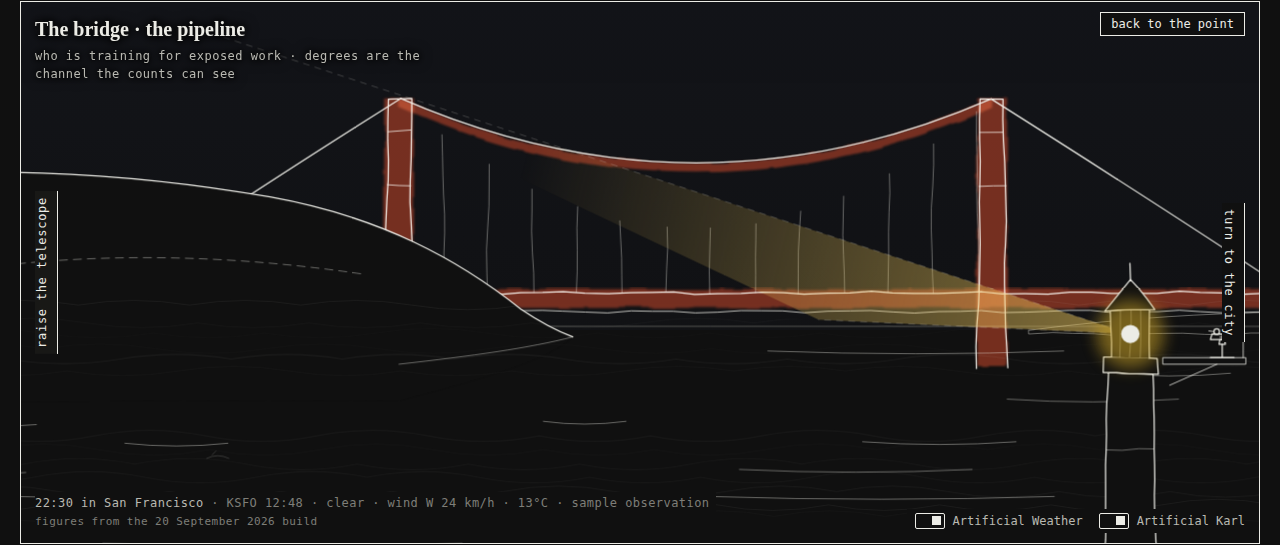
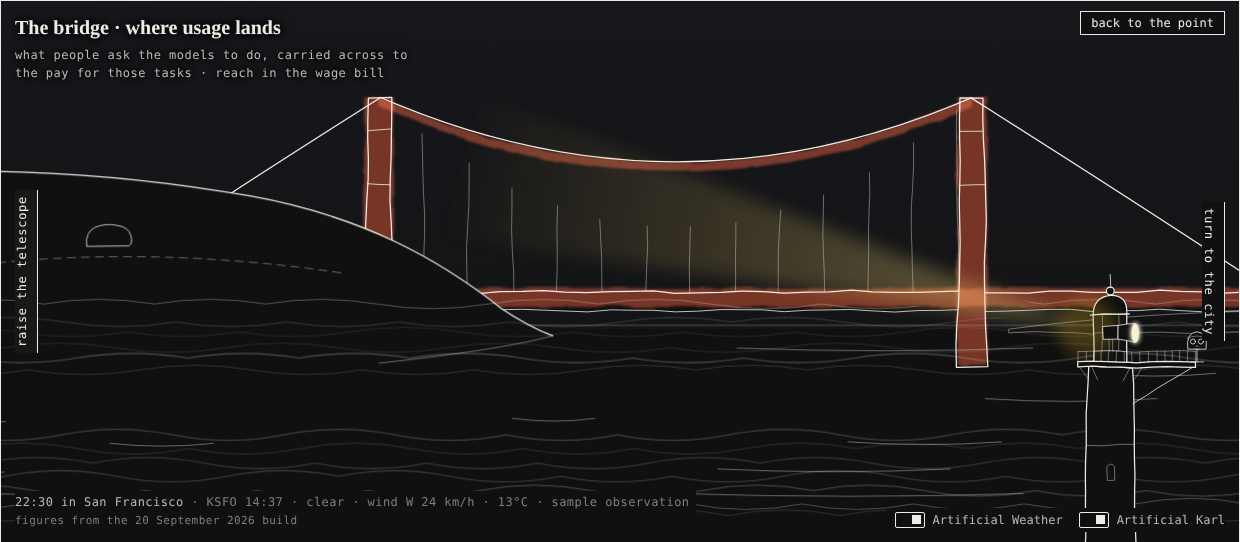
Front page: the lighthouse as it is built, with a lamp that turns and sends the light from its lens; the round-headed viewer on the gallery; the skyline layered; the hydrant between the towers and City Hall; rows of houses and trees on the southern slopes; no daytime glow and no colour in the sun; K

diff --git a/docs/mockup/index.html b/docs/mockup/index.html
@@ -40,7 +40,7 @@ header.top{display:flex;align-items:baseline;justify-content:space-between;gap:1
 .stage{position:relative;margin-top:14px;border:1px solid var(--ink);background:var(--paper);overflow:hidden;aspect-ratio:16/7}
 /* Each layer is its own drawing surface, so the line work with its filters is painted once and only the
    water, the fog and the sky repaint; turning to a view moves the surfaces, which repaints nothing. */
-.stage>svg{position:absolute;inset:0;width:100%;height:100%;overflow:visible;will-change:transform;pointer-events:none}
+.stage>svg{position:absolute;inset:0;width:100%;height:100%;overflow:visible;pointer-events:none}
 .stage>svg.pan{transition:opacity .8s}
 /* Turning to a view is a scale of the one drawing about that place, on a group inside each surface, so the
    ink keeps its weight: strokes are set in screen pixels and do not thicken with the zoom. */
@@ -105,6 +105,7 @@ header.top{display:flex;align-items:baseline;justify-content:space-between;gap:1
 .stage:not([data-view="home"]) .fg .hot,.stage[data-view="valley"] .beam{display:none}
 .stage:not([data-view="home"]) .beam path{opacity:.4}
 .halo{fill:var(--gold);stroke:none;opacity:0;transition:opacity .6s}
+.lens{fill:var(--paper)}.dusk .lens{fill:#FBE9B5}.night .lens{fill:#FFF2C2;filter:url(#lamp)}
 .nightlight{opacity:0;transition:opacity 1.2s}
 .dusk .nightlight{opacity:.45}
 .night .nightlight{opacity:.85}
@@ -252,8 +253,7 @@ header.top{display:flex;align-items:baseline;justify-content:space-between;gap:1
         <g class="beam" id="beam"><polygon id="beamlight" points="0,0" fill="url(#beamgrad)" style="stroke:none"/><path d="" class="hair" stroke-dasharray="6 6"/></g>
         <g id="lh"></g>
         <!-- a small platform off the gallery, and the coin telescope on it, turned south -->
-        <path d="M825 283 L 888 283 L 888 288 L 825 288 Z M 886 283 L 886 270 M 866 288 L 830 304" class="thin" style="fill:var(--paper)"/>
-        <g transform="translate(870,283)" id="viewer-small"></g>
+        <g transform="translate(866,285)" id="viewer-small"></g>
         <path d="M640 604 L 960 604 M640 604 L 640 630 M720 604 L 720 632 M800 604 L 800 632 M880 604 L 880 630 M960 604 L 960 628" class="thin"/>
         <g class="hot" id="hot-city" tabindex="0" role="button" aria-label="The city: what has moved">
           <path class="hit" d="M800 300 L1600 120 L1600 480 Z"/><path class="hit" d="M1000 120 h560 v200 h-560 Z"/>
@@ -347,7 +347,7 @@ header.top{display:flex;align-items:baseline;justify-content:space-between;gap:1
   const el = (tag, attrs={}, parent) => { const n = document.createElementNS(NS, tag); for (const k in attrs) n.setAttribute(k, attrs[k]); if (parent) parent.appendChild(n); return n; };
   function rng(seed){ let s = seed; return () => (s = (s * 16807) % 2147483647) / 2147483647; }
   const W = 1600;                         // the frame is the scene: the view from the point
-  const CH = 780, HYD = 870;              // in the city's own units: City Hall's x, and the hydrant's on the shore
+  const CH = 756, HYD = 838;              // in the city's own units: City Hall's x, and the hydrant's on the shore
 
   /* ---------- line work ---------- */
   function water(g, x0, x1, y0, y1, seed, dens){
@@ -366,16 +366,32 @@ header.top{display:flex;align-items:baseline;justify-content:space-between;gap:1
     }
   }
   function lighthouse(g, x, y, h){
-    const w = 34, top = y - h;
-    el("path", {d:`M${x-w/2-6} ${y} L ${x-w/2} ${top+40} L ${x+w/2} ${top+40} L ${x+w/2+6} ${y} Z`, style:"fill:var(--paper)"}, g);
-    for (let i=1;i<5;i++){ const yy = top+40 + (y-top-40)*i/5; el("path", {d:`M${x-w/2-1} ${yy} L ${x+w/2+1} ${yy}`, class:"hair"}, g); }
-    el("path", {d:`M${x-w/2-4} ${top+40} L ${x+w/2+4} ${top+40} L ${x+w/2+4} ${top+28} L ${x-w/2-4} ${top+28} Z`, style:"fill:var(--paper)"}, g);
-    el("path", {d:`M${x-w/2+2} ${top+28} L ${x-w/2+2} ${top-8} L ${x+w/2-2} ${top-8} L ${x+w/2-2} ${top+28}`, style:"fill:var(--paper)"}, g);
-    el("path", {d:`M${x-8} ${top-8} L ${x-8} ${top+28} M${x} ${top-8} L ${x} ${top+28} M${x+8} ${top-8} L ${x+8} ${top+28}`, class:"hair"}, g);
-    el("path", {d:`M${x-w/2-2} ${top-8} L ${x+w/2+2} ${top-8} L ${x} ${top-32} Z`, style:"fill:var(--paper)"}, g);
-    el("path", {d:`M${x} ${top-32} L ${x} ${top-44}`}, g);
-    el("circle", {cx:x, cy:top+10, r:26, class:"halo"}, g);
-    el("circle", {cx:x, cy:top+10, r:7, class:"solid lantern"}, g);
+    const w = 34, top = y - h, P = "fill:var(--paper)";
+    el("path", {d:`M${x-w/2-6} ${y} L ${x-w/2} ${top+34} L ${x+w/2} ${top+34} L ${x+w/2+6} ${y} Z`, style:P}, g);
+    for (let i=1;i<5;i++){ const yy = top+34 + (y-top-34)*i/5; el("path", {d:`M${x-w/2-1} ${yy} L ${x+w/2+1} ${yy}`, class:"hair"}, g); }
+    el("path", {d:`M${x-3} ${top+120} L ${x-3} ${top+110} Q ${x} ${top+106} ${x+3} ${top+110} L ${x+3} ${top+120} Z M${x-3} ${top+200} L ${x-3} ${top+190} Q ${x} ${top+186} ${x+3} ${top+190} L ${x+3} ${top+200} Z`, class:"hair"}, g);
+    // the corbels under the gallery, and the gallery deck, which runs out on the south side to carry the viewer
+    for (const d of [-1, 1]) el("path", {d:`M${x+d*(w/2)} ${top+44} L ${x+d*(w/2+7)} ${top+34} M${x+d*(w/2-7)} ${top+44} L ${x+d*(w/2-2)} ${top+34}`, class:"hair"}, g);
+    el("path", {d:`M${x-w/2-8} ${top+30} L ${x+w/2+48} ${top+30} L ${x+w/2+48} ${top+34} L ${x-w/2-8} ${top+34} Z`, style:P}, g);
+    el("path", {d:`M${x+w/2+46} ${top+34} L ${x+w/2} ${top+62}`, class:"thin"}, g);
+    // the lantern room: glass between mullions, on a low parapet
+    el("path", {d:`M${x-13} ${top+30} L ${x-13} ${top-6} L ${x+13} ${top-6} L ${x+13} ${top+30} Z`, style:P}, g);
+    el("path", {d:`M${x-13} ${top+22} L ${x+13} ${top+22} M${x-6.5} ${top-6} L ${x-6.5} ${top+22} M${x+6.5} ${top-6} L ${x+6.5} ${top+22} M${x-13} ${top+8} L ${x+13} ${top+8}`, class:"hair"}, g);
+    // the roof: a shallow dome, its eave, the ventilator ball and the rod
+    el("path", {d:`M${x-15} ${top-6} L ${x+15} ${top-6} M${x-13} ${top-6} Q ${x-13} ${top-20} ${x} ${top-21} Q ${x+13} ${top-20} ${x+13} ${top-6} Z`, style:P}, g);
+    el("circle", {cx:x, cy:top-24, r:3, style:P}, g); el("path", {d:`M${x} ${top-27} L ${x} ${top-37}`, class:"thin"}, g);
+    el("circle", {cx:x, cy:top+8, r:22, class:"halo", id:"halo"}, g);
+    // the lamp: a drum on its yoke and a short barrel ending in the lens; it pokes out of the glass on the side it faces
+    const lamp = el("g", {id:"lamp", transform:`translate(${x},${top+8})`}, g);
+    el("path", {d:"M -1.5 5 L -1.5 14 M 1.5 5 L 1.5 14", class:"hair"}, lamp);
+    el("path", {d:"M -6 -5 L 6 -5 L 6 5 L -6 5 Z", class:"thin", style:P}, lamp);
+    el("path", {d:"M 6 -5 L 19 -7 L 19 7 L 6 5 Z", class:"thin", style:P}, lamp);
+    el("ellipse", {cx:19, cy:0, rx:2.4, ry:7, class:"thin lens"}, lamp);
+    el("ellipse", {cx:19, cy:0, rx:1.2, ry:3.8, class:"hair"}, lamp);
+    // the gallery railing, in front of the glass and the lamp
+    let rail = `M${x-w/2-8} ${top+22} L ${x+w/2+48} ${top+22}`;
+    for (let px = x-w/2-8; px <= x+w/2+48; px += 6) rail += ` M${px} ${top+22} L ${px} ${top+30}`;
+    el("path", {d:rail, class:"hair"}, g);
   }
   function suspension(g, x1, x2, deckY, towerH, sag){
     const mid = (x1+x2)/2;
@@ -461,12 +477,11 @@ header.top{display:flex;align-items:baseline;justify-content:space-between;gap:1
   el("path", {d:"M 0 380 L 0 262 C 60 252, 150 256, 230 270 C 290 281, 332 304, 366 330 C 376 338, 384 343, 394 346 C 380 360, 330 372, 300 380 Z", style:"fill:var(--paper);stroke:none"}, headland);
   el("path", {d:"M 0 262 C 60 252, 150 256, 230 270 C 290 281, 332 304, 366 330 C 376 338, 384 343, 394 346"}, headland);
   { const cp = el("clipPath", {id:"behind-rock", clipPathUnits:"userSpaceOnUse"}, el("defs", {}, $("#L-water"))); el("rect", {x:-14, y:-40, width:28, height:42}, cp); }
-  const bear = el("g", {transform:"translate(154,294) scale(1.4)", "clip-path":"url(#behind-rock)"}, headland), bearHead = el("g", {transform:"translate(0,8)", id:"bearhead"}, bear);
+  const bear = el("g", {transform:"translate(154,295) scale(1.1)", "clip-path":"url(#behind-rock)"}, headland), bearHead = el("g", {transform:"translate(0,8)", id:"bearhead"}, bear);
   el("path", {d:"M -3.2 -5 a 1.4 1.4 0 1 1 0.1 0 M 3.2 -5 a 1.4 1.4 0 1 1 0.1 0", class:"thin", style:"fill:var(--paper)"}, bearHead);
   el("path", {d:"M -4.2 1 Q -4.8 -5.4 0 -5.8 Q 4.8 -5.4 4.4 -1.2 Q 7.4 -1.4 7.6 0.2 Q 7.2 1.6 4 1.4 L 4 1.8 Z", class:"thin", style:"fill:var(--paper)"}, bearHead);
   el("circle", {cx:2, cy:-2.6, r:.55, class:"solid"}, bearHead); el("circle", {cx:7.3, cy:-0.3, r:.6, class:"solid"}, bearHead);
-  el("path", {d:"M 139 298 L 142 290 L 148 285 L 156 283 L 163 285.5 L 167 291 L 169 298 Z", class:"thin", style:"fill:var(--paper)"}, headland);
-  el("path", {d:"M 152 284 L 154 290 L 151 294", class:"hair"}, headland);
+  el("path", {d:"M 143 297 Q 142 290 147 287 Q 153 284 159 285.5 Q 165 287 166 292 Q 167 296 165 297 Z", class:"thin", style:"fill:var(--paper)"}, headland);
   el("path", {d:"M 394 346 C 370 352, 340 356, 300 360", class:"hair"}, headland);
   el("path", {d:"M 20 318 C 100 300, 190 298, 280 312", class:"hair", "stroke-dasharray":"8 6"}, headland);
   fog(fogG, [[330, 5, 6],[400, 6, 7],[470, 5, 5]], 11);
@@ -495,21 +510,29 @@ header.top{display:flex;align-items:baseline;justify-content:space-between;gap:1
     const ridge = [[-40,-24],[120,-32],[260,-46],[420,-58],[520,-66],[630,-86]];
     const ridgeY = u => { for (let i=1;i<ridge.length;i++) if (u <= ridge[i][0]){ const [a, ya] = ridge[i-1], [b, yb] = ridge[i]; return ya + (yb-ya)*(u-a)/(b-a); } return -86; };
     { const rh = rng(97);
-      for (let u = 0; u < 590; u += 26 + rh()*30){
-        const depth = 8 + rh()*34, base = b0 + ridgeY(u) + depth; if (base > b0 - 4) continue;
-        const w_ = 9 + rh()*9, h_ = 5 + rh()*5, x = ox + u + rh()*8;
-        // a small house: a box with a pitched or a flat roof, a window now and then
-        const roof = rh() < .6 ? `L ${x+w_/2} ${base-h_-4}` : "";
-        el("path", {d:`M${x} ${base} L ${x} ${base-h_} ${roof} L ${x+w_} ${base-h_} L ${x+w_} ${base} Z`, class:"hair", style:"fill:var(--paper)"}, g);
-        if (rh() < .5) el("path", {d:`M${x+w_*.35} ${base-h_*.55} l 3 0`, class:"hair"}, g); } }
+      const tree = (x, base, r) => el("path", {d:`M${x-r} ${base} q 0 ${-r*1.6} ${r} ${-r*1.9} q ${r} ${r*.3} ${r} ${r*1.9} z M${x} ${base} l 0 2`, class:"hair", style:"fill:var(--paper)"}, g);
+      // three rows, the highest first so the lower ones stand in front of it
+      for (const depth of [9, 21, 33]){
+        let u = 4 + rh()*10;
+        while (u < 600){
+          const base = b0 + ridgeY(u) + depth; if (base > b0 - 4){ u += 12; continue; }
+          if (rh() < .2){ tree(ox+u+5, base, 4 + rh()*2.5); u += 12 + rh()*10; continue; }          // a tree, or a gap in the row
+          if (rh() < .07){ u += 10 + rh()*14; continue; }
+          const w_ = 7 + rh()*4, h_ = 5 + rh()*3, pitched = rh() < .25, x = ox + u;
+          el("path", {d:`M${x} ${base} L ${x} ${base-h_} ${pitched ? `L ${x+w_/2} ${base-h_-3}` : ""} L ${x+w_} ${base-h_} L ${x+w_} ${base} Z`, class:"hair", style:"fill:var(--paper)"}, g);
+          if (rh() < .55) el("path", {d:`M${x+2} ${base-h_*.5} l 2.4 0`, class:"hair"}, g);
+          u += w_ - .2; } } }
     const sx = ox+700, sy = baseY-104;
     // Sutro: three masts, the outer pair upright at the top, pinched to a waist, splayed to the feet, tied by struts
     const H = 100;
     el("path", {d:`M${sx-15} ${sy} L ${sx-4} ${sy-H*0.52} L ${sx-8} ${sy-H*0.62} L ${sx-8} ${sy-H} M${sx} ${sy-H-8} L ${sx} ${sy} M${sx+15} ${sy} L ${sx+4} ${sy-H*0.52} L ${sx+8} ${sy-H*0.62} L ${sx+8} ${sy-H}`, class:"thin"}, g);
     for (const [f, hw] of [[0.12, 13], [0.3, 9], [0.5, 4], [0.62, 8], [0.84, 8]]) el("path", {d:`M${sx-hw} ${sy-H*f} L ${sx+hw} ${sy-H*f}`, class:"hair"}, g);
-    const towers = [[860,110,26,1],[892,150,24,1],[920,80,20,0],[946,200,30,1],[982,260,34,1],[1022,180,26,1],[1054,150,22,1],[1082,120,28,0],[1116,96,22,1],[1144,140,26,1],[1176,70,20,0]];
-    for (const [x,h,w_,win] of towers) box(g, ox + 2056 - x - w_, baseY-h-8, w_, h, win);
-    el("path", {d:`M ${ox+1128} ${baseY-8} L ${ox+1142} ${baseY-236} L ${ox+1156} ${baseY-8} Z`, style:"fill:var(--paper)"}, g);
+    // each tower: x, height, width, windows, and how far forward it stands (0 behind, 2 in front)
+    const towers = [[852,104,28,1,1],[874,146,26,1,0],[894,78,22,0,2],[912,196,30,1,0],[938,150,26,1,1],[960,120,22,1,2],[982,260,34,1,1],[1008,184,28,1,0],
+                    [1030,128,24,1,2],[1046,152,24,1,1],[1066,112,28,0,0],[1086,142,24,1,1],[1106,94,22,1,2],[1124,166,24,1,0],[1148,122,26,1,1],[1170,76,22,0,2],[1188,104,20,1,0]];
+    for (const depth of [0, 1, 2]){
+      for (const [x,h,w_,win,dp] of towers) if (dp === depth) box(g, ox + 2056 - x - w_, baseY-h-8, w_, h, win);
+      if (depth === 1) el("path", {d:`M ${ox+1128} ${baseY-8} L ${ox+1142} ${baseY-236} L ${ox+1156} ${baseY-8} Z`, style:"fill:var(--paper)"}, g); }
     el("path", {d:`M ${ox+1040} ${baseY-268} Q ${ox+1057} ${baseY-290} ${ox+1074} ${baseY-268}`}, g);
     // City Hall and Hayes Valley west of the towers, under Sutro: the house a little behind, the trees in front of it
     const hv = ox+CH, gy = baseY-8;
@@ -566,7 +589,7 @@ header.top{display:flex;align-items:baseline;justify-content:space-between;gap:1
     tint(L, domeHalf(hv, gy-44, 44, 24, -1), ca).classList.add("nightlight");
     tint(L, domeHalf(hv, gy-44, 44, 24, 1), cb).classList.add("nightlight");
     // the crown: a soft wash and a grid of blocks that breathe out of step
-    el("ellipse", {cx:hv, cy:gy-54, rx:30, ry:20, class:"nightlight", filter:"url(#glow)", style:`fill:${ca};stroke:none;opacity:.5`}, L);
+    el("ellipse", {cx:hv, cy:gy-54, rx:30, ry:20, class:"nightlight", filter:"url(#glow)", style:`fill:${ca};stroke:none;fill-opacity:.5`}, L);
     el("ellipse", {cx:ox+1057, cy:baseY-276, rx:22, ry:16, class:"nightlight", filter:"url(#glow)", style:"fill:#9FB7C9;stroke:none"}, L);
     tintRect(L, ox+1041, baseY-290, 32, 30, "#9FB7C9").classList.add("nightlight");
     const grid = el("g", {class:"nightlight"}, L); const r = rng(59);
@@ -583,7 +606,13 @@ header.top{display:flex;align-items:baseline;justify-content:space-between;gap:1
     el("path", {d:`M${-21*s} ${-66*s} L ${-34*s} ${-68*s} M${21*s} ${-66*s} L ${34*s} ${-68*s}`, class:"thin"}, g);
     el("path", {d:`M${-6*s} ${-52*s} L ${6*s} ${-52*s} M 0 ${-56*s} L 0 ${-48*s}`, class:"thin"}, g);   // the coin slot, a cross
   }
-  viewer($("#viewer-small"), .3);
+  (function towerViewer(g){
+    el("path", {d:"M -5 0 L 5 0 M 0 0 L 0 -10 M -2 -10 L 2 -10", class:"thin"}, g);
+    el("path", {d:"M -7 -10 Q -8.5 -22 0 -23 Q 8.5 -22 7 -10 Z", class:"thin", style:"fill:var(--paper)"}, g);
+    el("path", {d:"M -7.6 -18 Q 0 -21.5 7.6 -18", class:"hair"}, g);
+    el("circle", {cx:-3, cy:-15.5, r:1.9, class:"thin", style:"fill:var(--paper)"}, g); el("circle", {cx:3, cy:-15.5, r:1.9, class:"thin", style:"fill:var(--paper)"}, g);
+    el("path", {d:"M -1 -12 L 1 -12", class:"hair"}, g);
+  })($("#viewer-small"));
   (function big(){
     const g = $("#viewer-big");
     const hood = el("g", {transform:"translate(800,700)"}, g);
@@ -594,9 +623,9 @@ header.top{display:flex;align-items:baseline;justify-content:space-between;gap:1
     el("path", {d:"M-150 -206 a 34 22 0 1 0 68 0 a 34 22 0 1 0 -68 0 M 82 -206 a 34 22 0 1 0 68 0 a 34 22 0 1 0 -68 0", class:"thin"}, hood);
     el("path", {d:"M-300 -60 L 300 -60", class:"hair"}, hood);
     el("path", {d:"M-14 -134 L 14 -134 M 0 -142 L 0 -126", class:"thin"}, hood);                      // the slot
-    el("path", {d:"M-64 -118 L 64 -118 L 64 -78 L -64 -78 Z", class:"thin"}, hood);                  // the plate
-    const t = el("text", {x:0, y:-88, "text-anchor":"middle", class:"cap"}, hood); t.textContent = "25.5¢";
-    const t2 = el("text", {x:0, y:-46, "text-anchor":"middle"}, hood); t2.textContent = "PER MILLION TOKENS";
+    el("path", {d:"M-70 -126 L 70 -126 L 70 -74 L -70 -74 Z", class:"thin"}, hood);                  // the plate
+    const t = el("text", {x:0, y:-100, "text-anchor":"middle", class:"cap"}, hood); t.textContent = "25.5¢";
+    const t2 = el("text", {x:0, y:-82, "text-anchor":"middle"}, hood); t2.textContent = "PER MILLION TOKENS";
     el("circle", {cx:-236, cy:-112, r:20}, hood); el("path", {d:"M-236 -132 L -236 -92 M-256 -112 L -216 -112", class:"hair"}, hood);
     const k = el("text", {x:-236, y:-78, "text-anchor":"middle"}, hood); k.textContent = "FOCUS";
     const hot = el("g", {class:"hot", id:"hot-coin", tabindex:"0", role:"button", "aria-label":"Insert a coin for sources and method"}, hood);
@@ -614,10 +643,10 @@ header.top{display:flex;align-items:baseline;justify-content:space-between;gap:1
     // the hills behind: a ridge crowned with a ragged line of trees, a raised stand of them with a mast in it, then a sharp drop to the lower ridge
     { const rr = rng(83), Lm = el("g", {transform:"translate(1300,0) scale(-1,1)"}, L);   // mirrored: the crest and its trees to the right, the cut to the left
       let d = "M 480 400 L 480 304 C 500 300, 516 296, 530 292", x = 530;
-      const crown = u => u < 668 ? 292 - (u-530)/138*54 : 238 + (u-668)*0.06;             // the canopy's line: rising to its crest, then nearly level
-      while (x < 700){ const w = 5 + rr()*13, top = Math.min(crown(x), crown(x+w)) - 2 - rr()*7; d += ` Q ${(x+w*.5).toFixed(1)} ${top.toFixed(1)} ${(x+w).toFixed(1)} ${(crown(x+w) + rr()*2).toFixed(1)}`; x += w; }
-      d += ` Q ${(x+3).toFixed(1)} 250 ${(x+2).toFixed(1)} 262 Q ${(x+4).toFixed(1)} 270 ${(x+9).toFixed(1)} 273`; x += 9;   // the steep cut where the trees end
-      while (x < 820){ const w = 5 + rr()*9, y = 273 + (x-710)*0.05; d += ` Q ${(x+w/2).toFixed(1)} ${(y - 2 - rr()*4).toFixed(1)} ${(x+w).toFixed(1)} ${y.toFixed(1)}`; x += w; }
+      const crown = u => u < 596 ? 292 - (u-530)/66*50 : 242 + (u-596)*0.08;              // the canopy's line: rising to its crest, then nearly level
+      while (x < 612){ const w = 5 + rr()*13, top = Math.min(crown(x), crown(x+w)) - 2 - rr()*7; d += ` Q ${(x+w*.5).toFixed(1)} ${top.toFixed(1)} ${(x+w).toFixed(1)} ${(crown(x+w) + rr()*2).toFixed(1)}`; x += w; }
+      d += ` Q ${(x+3).toFixed(1)} 254 ${(x+2).toFixed(1)} 264 Q ${(x+4).toFixed(1)} 272 ${(x+9).toFixed(1)} 275`; x += 9;   // the steep cut where the trees end
+      while (x < 820){ const w = 5 + rr()*9, y = 275 + (x-621)*0.04; d += ` Q ${(x+w/2).toFixed(1)} ${(y - 2 - rr()*4).toFixed(1)} ${(x+w).toFixed(1)} ${y.toFixed(1)}`; x += w; }
       el("path", {d: d + " L 820 400 Z", class:"thin", style:"fill:var(--paper)"}, Lm);
       // the grass below the trees: the hill's own shoulder, and a pale fold lower down
       el("path", {d:"M 500 322 C 570 306, 640 298, 706 296 C 750 296, 790 300, 820 304", class:"hair"}, Lm);
@@ -661,7 +690,7 @@ header.top{display:flex;align-items:baseline;justify-content:space-between;gap:1
   const TARGET = { city:{ ends:[[1000, 230], [1450, 336]], base:[[1020, 250], [1450, 338]] }, bridge:{ ends:[[160, 240], [760, 330]], base:[[300, 215], [560, 338]] }, tele:{ ends:[[1470, 334], [1600, 346]] } };
   const beamPath = $("#beam path"); let beamTimer = null; const fogTimers = [];
   // where the lighthouse stands in each view: whole at the point; turned, only its lantern shows, large, at the side you turned from
-  const LANTERN = [800, 265];
+  const LANTERN = [800, 263];
   const fgAt = (x, y, s) => ({ s, t:[x - s*LANTERN[0], y - s*LANTERN[1]] });
   const FG = { home:{ s:1, t:[0,0] }, city:fgAt(165, 430, 1.7), bridge:fgAt(1435, 430, 1.7), valley:{ s:1, t:[0,0] } };
   const fgToScreen = (view, [x, y]) => { const f = FG[view] || FG.home; return [f.t[0] + f.s*x, f.t[1] + f.s*y]; };
@@ -684,9 +713,16 @@ header.top{display:flex;align-items:baseline;justify-content:space-between;gap:1
       beamPath.setAttribute("d", "");
     }
     const farFg = far.map(e => screenToFg(view, e));
-    $("#beamlight").setAttribute("points", [LANTERN, ...farFg].map(q => q.map(v => v.toFixed(1)).join(",")).join(" "));
-    const g = $("#beamgrad"), mid = [(farFg[0][0]+farFg[1][0])/2, (farFg[0][1]+farFg[1][1])/2];
-    g.setAttribute("x1", LANTERN[0]); g.setAttribute("y1", LANTERN[1]); g.setAttribute("x2", mid[0].toFixed(1)); g.setAttribute("y2", mid[1].toFixed(1));
+    const mid = [(farFg[0][0]+farFg[1][0])/2, (farFg[0][1]+farFg[1][1])/2];
+    // turn the lamp to face the middle of what it lights; the light leaves from its lens
+    const ddx = mid[0]-LANTERN[0], ddy = mid[1]-LANTERN[1], dir = ddx >= 0 ? 1 : -1, tilt = Math.max(-.5, Math.min(.5, Math.atan2(ddy, Math.abs(ddx))));
+    $("#lamp").setAttribute("transform", `translate(${LANTERN[0]},${LANTERN[1]}) scale(${dir},1) rotate(${(tilt*180/Math.PI).toFixed(1)})`);
+    const lens = [LANTERN[0] + dir*19*Math.cos(tilt), LANTERN[1] + 19*Math.sin(tilt)];
+    $("#halo").setAttribute("cx", lens[0].toFixed(1)); $("#halo").setAttribute("cy", lens[1].toFixed(1));
+    if (!zoomed) beamPath.setAttribute("d", farFg.map(([x, y]) => `M${lens[0].toFixed(1)} ${lens[1].toFixed(1)} L ${x.toFixed(1)} ${y.toFixed(1)}`).join(" "));
+    $("#beamlight").setAttribute("points", [lens, ...farFg].map(q => q.map(v => v.toFixed(1)).join(",")).join(" "));
+    const g = $("#beamgrad");
+    g.setAttribute("x1", lens[0].toFixed(1)); g.setAttribute("y1", lens[1].toFixed(1)); g.setAttribute("x2", mid[0].toFixed(1)); g.setAttribute("y2", mid[1].toFixed(1));
     // the fog opens between the same two edges, in scene units
     const [ox, oy] = zoomed ? toScene(view, ...lantern) : lantern, L = 1600/ZOOM[view].s;
     const ang = far.map(([x, y]) => Math.atan2(y-lantern[1], x-lantern[0])); let [a0, a1] = ang; if (a1 < a0) [a0, a1] = [a1, a0]; if (a1 - a0 > Math.PI){ [a0, a1] = [a1, a0 + 2*Math.PI]; }
@@ -932,7 +968,7 @@ header.top{display:flex;align-items:baseline;justify-content:space-between;gap:1
     const cross = 20*Math.max(60, 900 / Math.max(Math.abs(lateral), 3));
     document.documentElement.style.setProperty("--cdrift", cross + "s");
     document.documentElement.style.setProperty("--rfall", (o.wind_kmh > 40 ? .7 : 1.1) + "s");
-    document.querySelectorAll(".fog").forEach(g=>{ g.style.opacity = w.fog; });
+    document.querySelectorAll(".fog").forEach(g=>{ g.style.opacity = Math.max(w.fog, .4); });
     sky.innerHTML = ""; skyFront.innerHTML = "";
     const r = rng(w.clouds*13+7), clock = Date.now()/1000;
     // most cloud is behind the land and the bridge; one in four passes in front of them
@@ -956,7 +992,6 @@ header.top{display:flex;align-items:baseline;justify-content:space-between;gap:1
     if (sun.alt > -2 && !w.band && w.fog < .9){
       const x = xOfAzimuth(sun.az), y = yOfAltitude(sun.alt);
       el("path", {d:`M ${x} ${y} m -22 0 a 22 22 0 1 0 44 0 a 22 22 0 1 0 -44 0 M ${x} ${y-34} l 0 -10 M ${x} ${y+34} l 0 10 M ${x-34} ${y} l -10 0 M ${x+34} ${y} l 10 0`, class:"thin sun"}, sky);
-      if (key === "clear") tint($("#washes"), `M ${x-24} ${y} a 24 24 0 1 0 48 0 a 24 24 0 1 0 -48 0 Z`, "var(--gold)").classList.add("sunwash");
     }
     if (night){ const rs = rng(Math.floor(Date.now()/86400e3)); const n = 4 + Math.floor(rs()*2);
       for (let i=0;i<n;i++){ const x = 480 + rs()*1080, y = 40 + rs()*120, sz = 2 + rs()*1.6;
@@ -1041,12 +1076,12 @@ header.top{display:flex;align-items:baseline;justify-content:space-between;gap:1
       const bez = (p0, p1, p2, p3, t) => { const u = 1-t; return [0,1].map(i => u*u*u*p0[i] + 3*u*u*t*p1[i] + 3*u*t*t*p2[i] + t*t*t*p3[i]); };
       const hi = 80 + Math.random()*60;
       const path = {
-        cruise:  { dur: 34000 + Math.random()*12000, s:[.62, .62], at: t => [sx + (ex-sx)*t, hi + Math.sin(t*4)*2] },
-        jet:     { dur: 13000 + Math.random()*5000,  s:[.6, .6], at: t => [sx + (ex-sx)*t, hi - 10 + t*(Math.random()<.5?1:-1)*0] },
-        landing: { dur: 24000 + Math.random()*6000,  s:[.7, 1], at: t => bez([sx, 110], [sx + (ex-sx)*.35, 140], [sx + (ex-sx)*.7, 250], [ex, 300 + Math.random()*0], t) },
-        takeoff: { dur: 20000 + Math.random()*6000,  s:[.45, .8], at: t => bez(behind, [behind[0] + (L2R?1:-1)*120, behind[1] - 40], [behind[0] + (L2R?1:-1)*500, 120], [behind[0] + (L2R?1:-1)*1100, 20], t), gearUp:true },
-        away:    { dur: 26000 + Math.random()*8000,  s:[.6, .12], at: t => bez([sx, 170], [800, 175], [L2R ? 1100 : 500, 110], [L2R ? 1150 : 450, 30], t), fade:true },
-        turn:    { dur: 26000 + Math.random()*8000,  s:[.55, .16], at: t => bez([ex, 120], [L2R ? 1100 : 500, 140], [behind[0] + (L2R?160:-160), behind[1] - 70], [behind[0], behind[1] + 10], t) },
+        cruise:  { dur: 34000 + Math.random()*12000, s:[.42, .42], at: t => [sx + (ex-sx)*t, hi + Math.sin(t*4)*2] },
+        jet:     { dur: 13000 + Math.random()*5000,  s:[.36, .36], at: t => [sx + (ex-sx)*t, hi - 10 + t*(Math.random()<.5?1:-1)*0] },
+        landing: { dur: 24000 + Math.random()*6000,  s:[.5, .78], at: t => bez([sx, 110], [sx + (ex-sx)*.35, 140], [sx + (ex-sx)*.7, 250], [ex, 300 + Math.random()*0], t) },
+        takeoff: { dur: 20000 + Math.random()*6000,  s:[.3, .6], at: t => bez(behind, [behind[0] + (L2R?1:-1)*120, behind[1] - 40], [behind[0] + (L2R?1:-1)*500, 120], [behind[0] + (L2R?1:-1)*1100, 20], t), gearUp:true },
+        away:    { dur: 26000 + Math.random()*8000,  s:[.45, .08], at: t => bez([sx, 170], [800, 175], [L2R ? 1100 : 500, 110], [L2R ? 1150 : 450, 30], t), fade:true },
+        turn:    { dur: 26000 + Math.random()*8000,  s:[.42, .12], at: t => bez([ex, 120], [L2R ? 1100 : 500, 140], [behind[0] + (L2R?160:-160), behind[1] - 70], [behind[0], behind[1] + 10], t) },
       }[kind];
       let prev = path.at(0);
       tween(path.dur, k=>{
@@ -1102,11 +1137,11 @@ header.top{display:flex;align-items:baseline;justify-content:space-between;gap:1
       const stop = hx + 20*S;
       tween(11000*(.85 + Math.random()*.3), k=>{ const x = x0 + Math.min(k*1.12, 1)*(stop-x0); const bump = k > .89 ? Math.sin((k-.89)*70)*2.5*(1-k)/.11 : 0; g.setAttribute("transform", `translate(${x+bump},${y})`); if (k > .86) car.classList.add("braking"); if (k > .89) spout.style.opacity = Math.min(1, (k-.89)*12); },
         ()=>{ tween(2200, k=>{ spout.style.opacity = 1; }, ()=>{ tween(900, k=>{ car.setAttribute("transform", `scale(${S*(1 - 2*k)}, ${S})`); }, ()=>{ car.classList.remove("braking"); tween(6000, k=>{ g.setAttribute("transform", `translate(${stop + k*k*(1700-stop)},${y})`); spout.style.opacity = 1 - k; }, ()=>{ clearInterval(spin); g.remove(); spout.remove(); }); }); }); }); },
-    bear(){ if (stage.dataset.view !== "bridge" || bearUp) return EVENTS.gull(); bearUp = true;
+    bear(){ if (stage.dataset.view !== "bridge" || bearUp) return stage.dataset.view === "bridge" ? undefined : EVENTS.ferry(); bearUp = true;
       // up over the rock, a look one way and the other, and down again
       const h = $("#bearhead"); const at = (y, fx) => h.setAttribute("transform", `translate(0,${y.toFixed(2)}) scale(${fx},1)`);
-      tween(1800, k=>at(8 - 15*(1-(1-k)**2), 1), ()=>{ setTimeout(()=>{ at(-7, -1); setTimeout(()=>{ at(-7, 1);
-        setTimeout(()=>tween(1400, k=>at(-7 + 15*k*k, 1), ()=>{ bearUp = false; }), 1600); }, 1400); }, 1500); }); },
+      tween(1800, k=>at(8 - 17*(1-(1-k)**2), 1), ()=>{ setTimeout(()=>{ at(-9, -1); setTimeout(()=>{ at(-9, 1);
+        setTimeout(()=>tween(1400, k=>at(-9 + 17*k*k, 1), ()=>{ bearUp = false; }), 1600); }, 1400); }, 1500); }); },
     gust(){ stage.classList.add("gust"); document.querySelectorAll(".gull").forEach(p=>{ p.style.transition = "transform .8s"; p.style.transform = "rotate(-22deg)"; });
       setTimeout(()=>{ stage.classList.remove("gust"); }, 5000); },
     ferry(){ if (stage.dataset.view !== "bridge") return EVENTS.gull();
@@ -1118,16 +1153,16 @@ header.top{display:flex;align-items:baseline;justify-content:space-between;gap:1
       const y = 530 + Math.random()*50, dur = 44000 + Math.random()*16000, bob = 1 + Math.random()*1.5;
       tween(dur, k=>{ g.setAttribute("transform", `translate(${-80 + k*1780},${y + Math.sin(k*28)*bob})`); }, ()=>g.remove()); },
   };
-  const WEIGHTS = [["gull",6],["plane",4],["gust",2],["ferry",1],["rocket",2],["robotaxi",1],["bear",2]];
+  const WEIGHTS = [["gull",5],["plane",4],["gust",1],["ferry",2],["rocket",4],["robotaxi",1],["bear",3]];
   const PLANE_KIND = params.get("plane");
   const FORCE_FAIL = params.get("rocket") === "fail";
-  const WELCOME = { city:"robotaxi", bridge:"ferry", home:"gull", valley:"gull" };
+  const WELCOME = { city:"robotaxi", bridge:"bear", home:"gull", valley:"rocket" };
   let welcomeTimer = null;
   function welcome(view){ clearTimeout(welcomeTimer); if (reduced || params.get("event")) return; welcomeTimer = setTimeout(()=>{ if (stage.dataset.view === view) EVENTS[WELCOME[view]](); }, view === "city" ? 6000 : 2600); }
   function pick(){ const total = WEIGHTS.reduce((a,[,w])=>a+w,0); let r = Math.random()*total; for (const [k,w] of WEIGHTS){ if ((r -= w) < 0) return k; } return "gull"; }
   // the first thing to happen on the bay, a little after arriving, is a launch; after that, whatever comes
   let firstEvent = true;
-  function schedule(){ if (reduced) return; const wait = firstEvent ? 14000 + Math.random()*6000 : 25000 + Math.random()*40000;
+  function schedule(){ if (reduced) return; const wait = firstEvent ? 12000 + Math.random()*5000 : 18000 + Math.random()*22000;
     setTimeout(()=>{ EVENTS[firstEvent ? "rocket" : pick()](); firstEvent = false; schedule(); }, wait); }
   if (params.get("event")){ setTimeout(()=>EVENTS[params.get("event")] && EVENTS[params.get("event")](), 2000); }
   schedule();
